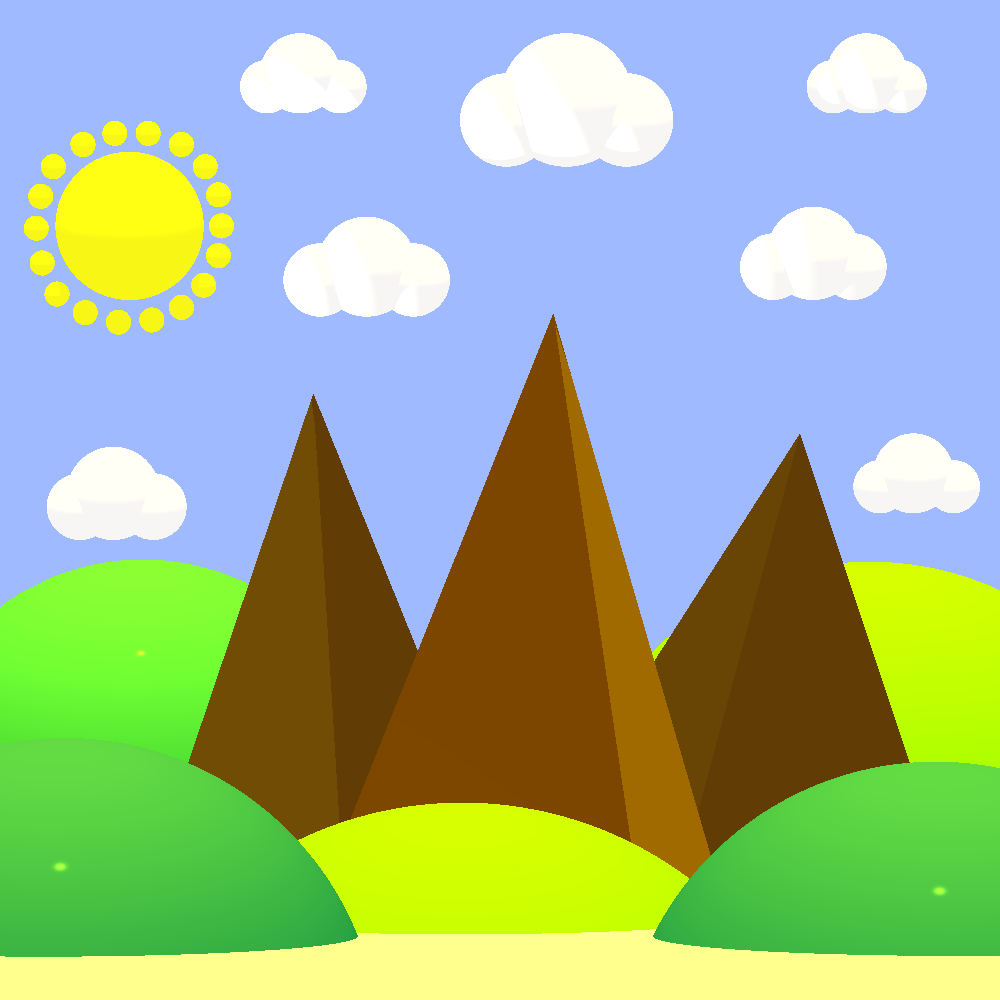
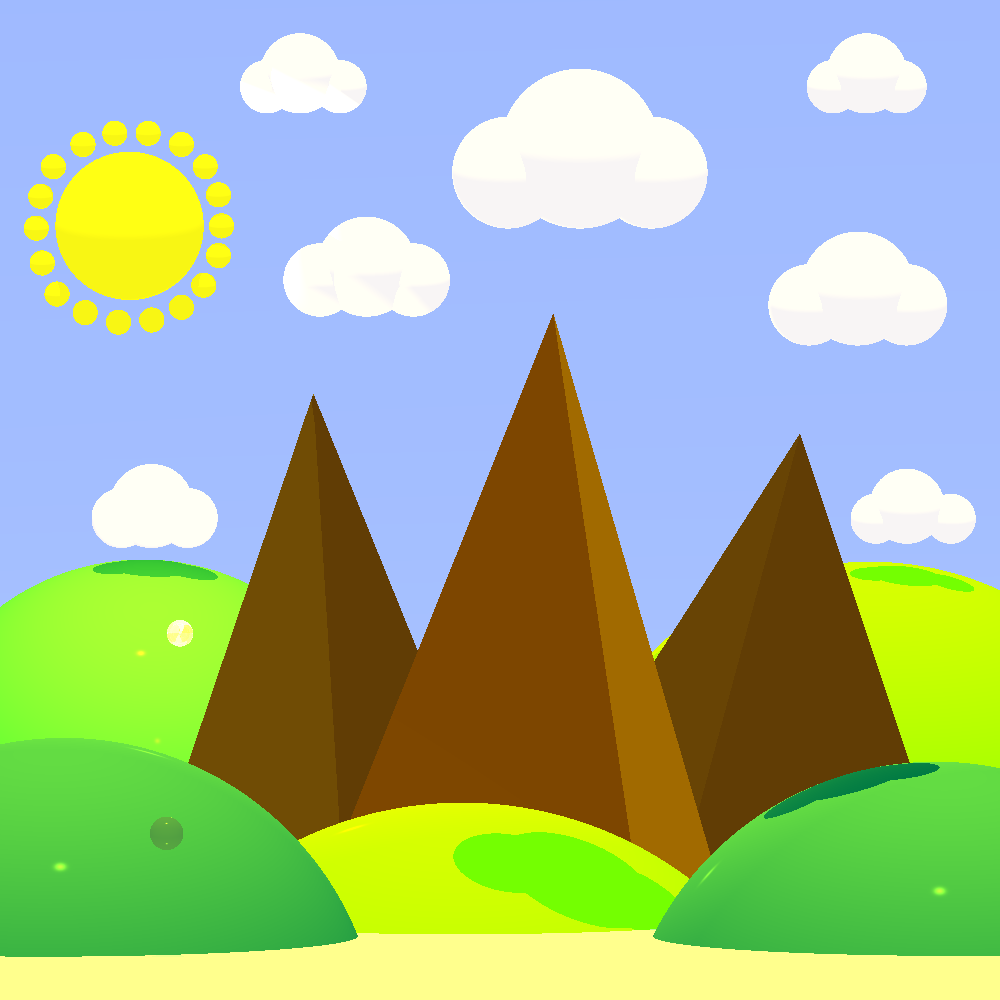
with bubbles and shadow

diff --git a/unitTests/renderer/minip1Test.java b/unitTests/renderer/minip1Test.java
@@ -38,13 +38,14 @@ public class minip1Test {
 
 
 
-
+        // light
         scene.getLights().add(
                 new DirectionalLight(new Color(200, 200, 0), new Vector(0,-4 ,-1))
         );
         scene.getLights().add(
-                new SpotLight(new Color(600,700,400),new Point(-40,28,-2), new Vector(0,1,0))
+                new SpotLight(new Color(600,700,400),new Point(-48,28,-2), new Vector(0,1,0))
         );
+
         scene.getLights().add(
                 new PointLight(new Color(100,100,0),new Point(-40,8,0))
         );
@@ -154,17 +155,38 @@ public class minip1Test {
         );*/
 
 
+
+        //bubbles
+
+        scene.getGeometries().add(
+                new Sphere(new Point(-40,-40,200),2d)
+                        .setEmission(new Color(255,255,255).scale(0.05))
+                        .setMaterial(new Material().setKd(0.1)
+                                .setKs(0.9).setShininess(300).setKt(0.8)),
+
+        new Sphere(new Point(-48,-20,0),2d)
+                .setEmission(new Color(255,255,255).scale(0.05))
+                .setMaterial(new Material().setKd(0.1)
+                        .setKs(0.9).setShininess(300).setKt(0.8).setKr(0.4)),
+
+                new Sphere(new Point(70,10,0),2d)
+                        .setEmission(new Color(255,255,255).scale(0.05))
+                        .setMaterial(new Material().setKd(0.1)
+                                .setKs(0.9).setShininess(300).setKt(0.8).setKr(0.4))
+
+        );
+
         //cloud
         scene.getGeometries().add(
-                //1-b
-                new Sphere(new Point(10, 60, 0), 10d).setEmission(new Color(248,245,245))
+                //4
+                new Sphere(new Point(10, 44, 165), 10d).setEmission(new Color(248,245,245))
                         .setMaterial(new Material().setKd(0.5).setKs(0.6).setShininess(3000)),
-                new Sphere(new Point(1, 57, 0), 7d).setEmission(new Color(248,245,245))
+                new Sphere(new Point(1, 41,165), 7d).setEmission(new Color(248,245,245))
                         .setMaterial(new Material().setKd(0.5).setKs(0.6).setShininess(3000)),
-                new Sphere(new Point(19, 57, 0), 7d).setEmission(new Color(248,245,245))
+                new Sphere(new Point(19, 41, 165), 7d).setEmission(new Color(248,245,245))
                         .setMaterial(new Material().setKd(0.5).setKs(0.6).setShininess(3000)),
 
-                //2-s
+                //5
                 new Sphere(new Point(55, 64, 0), 6d).setEmission(new Color(248,245,245))
                         .setMaterial(new Material().setKd(0.5).setKs(0.6).setShininess(3000)),
                 new Sphere(new Point(60, 62, 0), 4d).setEmission(new Color(248,245,245))
@@ -173,22 +195,23 @@ public class minip1Test {
                         .setMaterial(new Material().setKd(0.5).setKs(0.6).setShininess(3000)),
 
                 //6
-                new Sphere(new Point(47, 37, 0), 7d).setEmission(new Color(248,245,245))
+                new Sphere(new Point(44, 26, 180), 7d).setEmission(new Color(248,245,245))
                         .setMaterial(new Material().setKd(0.5).setKs(0.6).setShininess(3000)),
-                new Sphere(new Point(53, 35, 0), 5d).setEmission(new Color(248,245,245))
+                new Sphere(new Point(50, 24, 180), 5d).setEmission(new Color(248,245,245))
                         .setMaterial(new Material().setKd(0.5).setKs(0.6).setShininess(3000)),
-                new Sphere(new Point(41, 35, 0), 5d).setEmission(new Color(248,245,245))
+                new Sphere(new Point(38, 24, 180), 5d).setEmission(new Color(248,245,245))
                         .setMaterial(new Material().setKd(0.5).setKs(0.6).setShininess(3000)),
 
 
                 //1
-                new Sphere(new Point(-58, 1, 0), 7d).setEmission(new Color(248,245,245))
+                new Sphere(new Point(-58, -1, -110), 7d).setEmission(new Color(248,245,245))
                         .setMaterial(new Material().setKd(0.5).setKs(0.6).setShininess(3000)),
-                new Sphere(new Point(-63, -1, 0), 5d).setEmission(new Color(248,245,245))
+                new Sphere(new Point(-63, -3, -110), 5d).setEmission(new Color(248,245,245))
                         .setMaterial(new Material().setKd(0.5).setKs(0.6).setShininess(3000)),
-                new Sphere(new Point(-52, -1, 0), 5d).setEmission(new Color(248,245,245))
+                new Sphere(new Point(-52, -3, -110), 5d).setEmission(new Color(248,245,245))
                         .setMaterial(new Material().setKd(0.5).setKs(0.6).setShininess(3000)),
 
+                //3
                 new Sphere(new Point(-30, 64, 0), 6d).setEmission(new Color(248,245,245))
                         .setMaterial(new Material().setKd(0.5).setKs(0.6).setShininess(3000)),
                 new Sphere(new Point(-35, 62, 0), 4d).setEmission(new Color(248,245,245))
@@ -206,11 +229,11 @@ public class minip1Test {
                         .setMaterial(new Material().setKd(0.5).setKs(0.6).setShininess(3000)),
 */
                 //7
-                new Sphere(new Point(62, 4, 0), 6d).setEmission(new Color(248,245,245))
+                new Sphere(new Point(65, -1, -65), 6d).setEmission(new Color(248,245,245))
                         .setMaterial(new Material().setKd(0.5).setKs(0.6).setShininess(3000)),
-                new Sphere(new Point(68, 2, 0), 4d).setEmission(new Color(248,245,245))
+                new Sphere(new Point(72, -3, -65), 4d).setEmission(new Color(248,245,245))
                         .setMaterial(new Material().setKd(0.5).setKs(0.6).setShininess(3000)),
-                new Sphere(new Point(57, 2, 0), 4d).setEmission(new Color(248,245,245))
+                new Sphere(new Point(60, -3, -65), 4d).setEmission(new Color(248,245,245))
                         .setMaterial(new Material().setKd(0.5).setKs(0.6).setShininess(3000)),
 
                 new Sphere(new Point(-20, 35, 0), 7.5d).setEmission(new Color(248,245,245))
